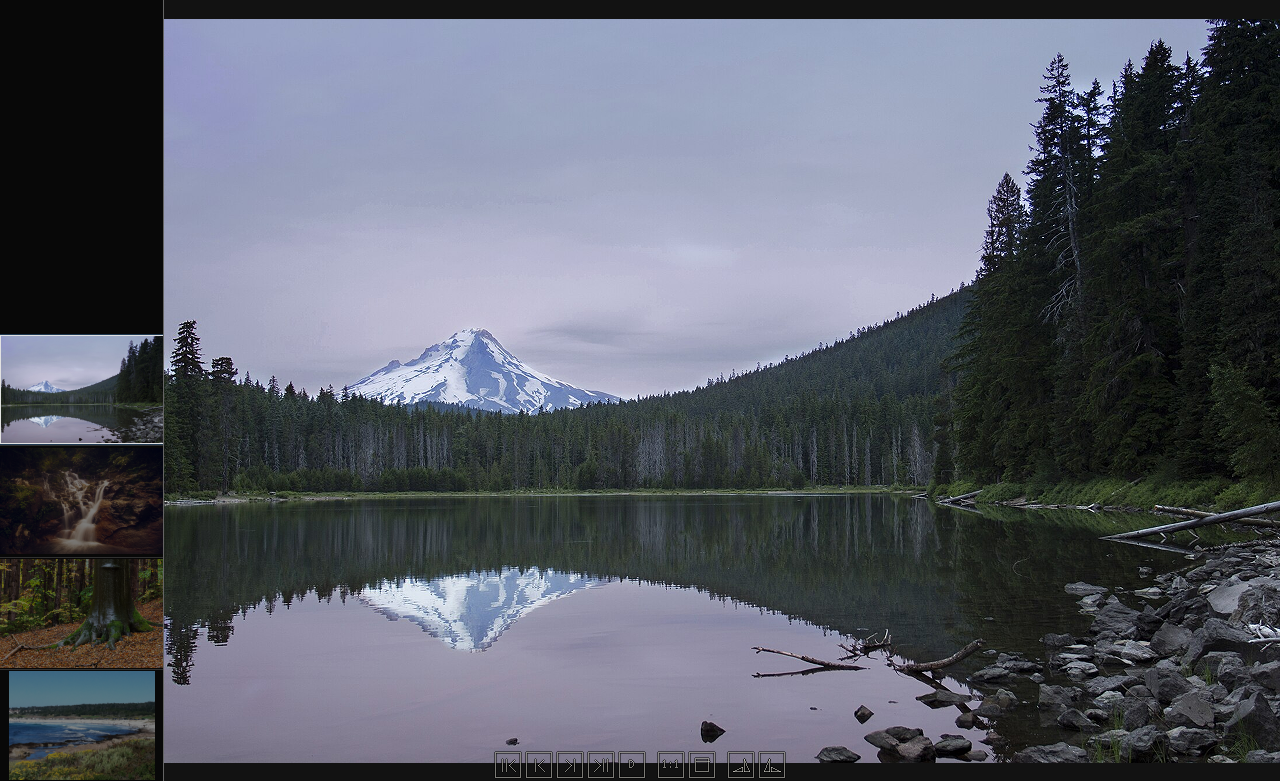
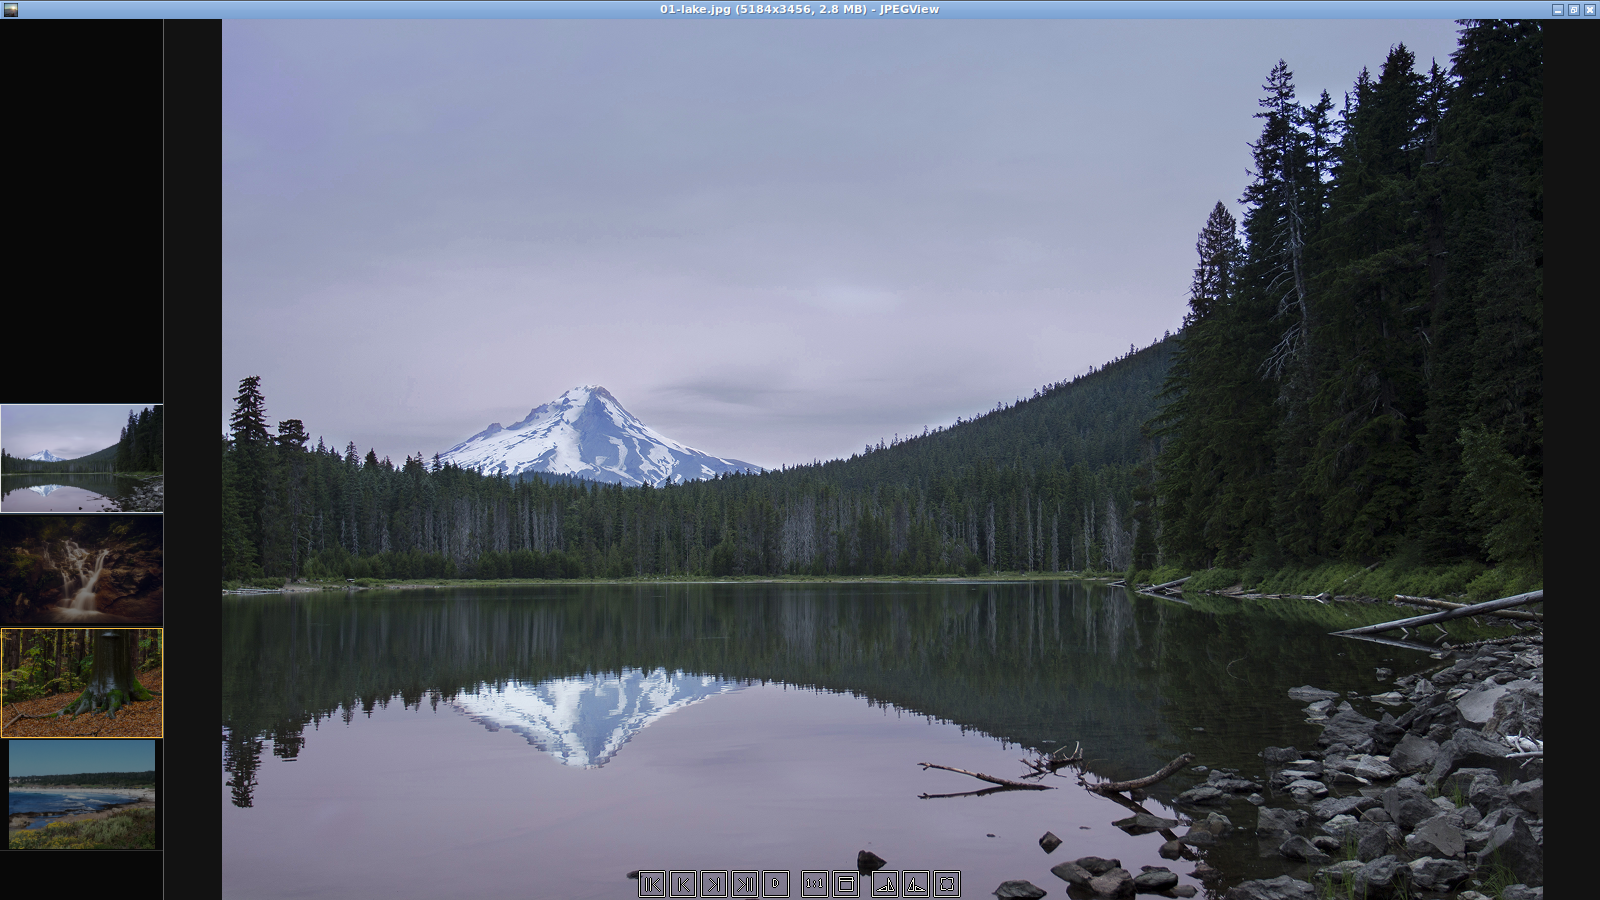
docs(linux): Refresh feature screenshots
Refresh the Linux README gallery using the existing CC0 sample-photo set. The captures show thumbnail marking, the resizable Browse and Recents previews, crop selection, live picture levels, the magnifying glass, the zoom-region navigator, mnemonic hints, and the full expanded context menu.

diff --git a/linux/README.md b/linux/README.md
@@ -685,13 +685,44 @@ ordered refactoring backlog. Possible future user-facing work is tracked separat
 
 ## Screenshots
 
-The main viewer with its neighboring-image thumbnail strip and lower navigation panel:
+The main viewer with the neighboring-image strip, lower navigation controls, and the gold outline
+on a marked image:
 
-<p><img src="screenshots/main-window-panels.png" width="720" alt="JPEGView Linux main window with thumbnail and navigation panels"></p>
+<p><img src="screenshots/main-window-panels.png" width="720" alt="JPEGView Linux main window with thumbnail and navigation panels, including a marked-image outline"></p>
 
-The open dialog with a selected image and its live preview:
+The resizable Browse dialog with folder counts, a selected image, and its live preview:
 
-<p><img src="screenshots/open-dialog-preview.png" width="720" alt="JPEGView Linux open dialog with a selected-image preview"></p>
+<p><img src="screenshots/open-dialog-preview.png" width="720" alt="JPEGView Linux Browse dialog with a selected-image preview and adjustable preview pane"></p>
+
+The Recents tab keeps one image per folder and shows the focused image in the same preview pane:
+
+<p><img src="screenshots/recent-files-preview.png" width="720" alt="JPEGView Linux Recents tab showing folder paths, filenames, and the focused image preview"></p>
+
+Crop selection mode provides a movable, resizable source-area selection and a crop-action menu:
+
+<p><img src="screenshots/crop-selection.png" width="720" alt="JPEGView Linux crop selection over a landscape with crop actions open"></p>
+
+Picture levels are adjusted live in the bottom panel:
+
+<p><img src="screenshots/picture-levels.png" width="720" alt="JPEGView Linux picture-level adjustment panel with live contrast adjustment"></p>
+
+The magnifying glass follows the pointer and shows a magnified area of the image:
+
+<p><img src="screenshots/magnifying-glass.png" width="720" alt="JPEGView Linux magnifying glass lens over a mountain lake"></p>
+
+When zoomed beyond the viewport, the upper-right navigator shows the whole image and the current
+view area:
+
+<p><img src="screenshots/zoom-region-navigator.png" width="720" alt="JPEGView Linux zoom-region navigator showing the visible viewport on a mountain lake"></p>
+
+The compact context menu exposes the newer viewing controls and underlined keyboard mnemonics:
+
+<p><img src="screenshots/context-menu-mnemonics.png" width="720" alt="JPEGView Linux context menu with crop, magnifying glass, picture levels, and mnemonic hints"></p>
+
+Choosing **Show Advanced Options** expands the full context menu into columns. It includes sibling-
+folder navigation with Alt+Left/Right; click the image to view the full-resolution capture:
+
+<p><a href="screenshots/context-menu-advanced.png"><img src="screenshots/context-menu-advanced.png" width="720" alt="JPEGView Linux full advanced context menu with sibling-folder navigation and keyboard shortcuts"></a></p>
 
 The sample photos shown are CC0 images from Wikimedia Commons: [Lake Mountain Landscape](https://commons.wikimedia.org/wiki/File:Lake_Mountain_Landscape.jpg),
 [Waterfall in forest](https://commons.wikimedia.org/wiki/File:Waterfall_in_forest.jpg),
